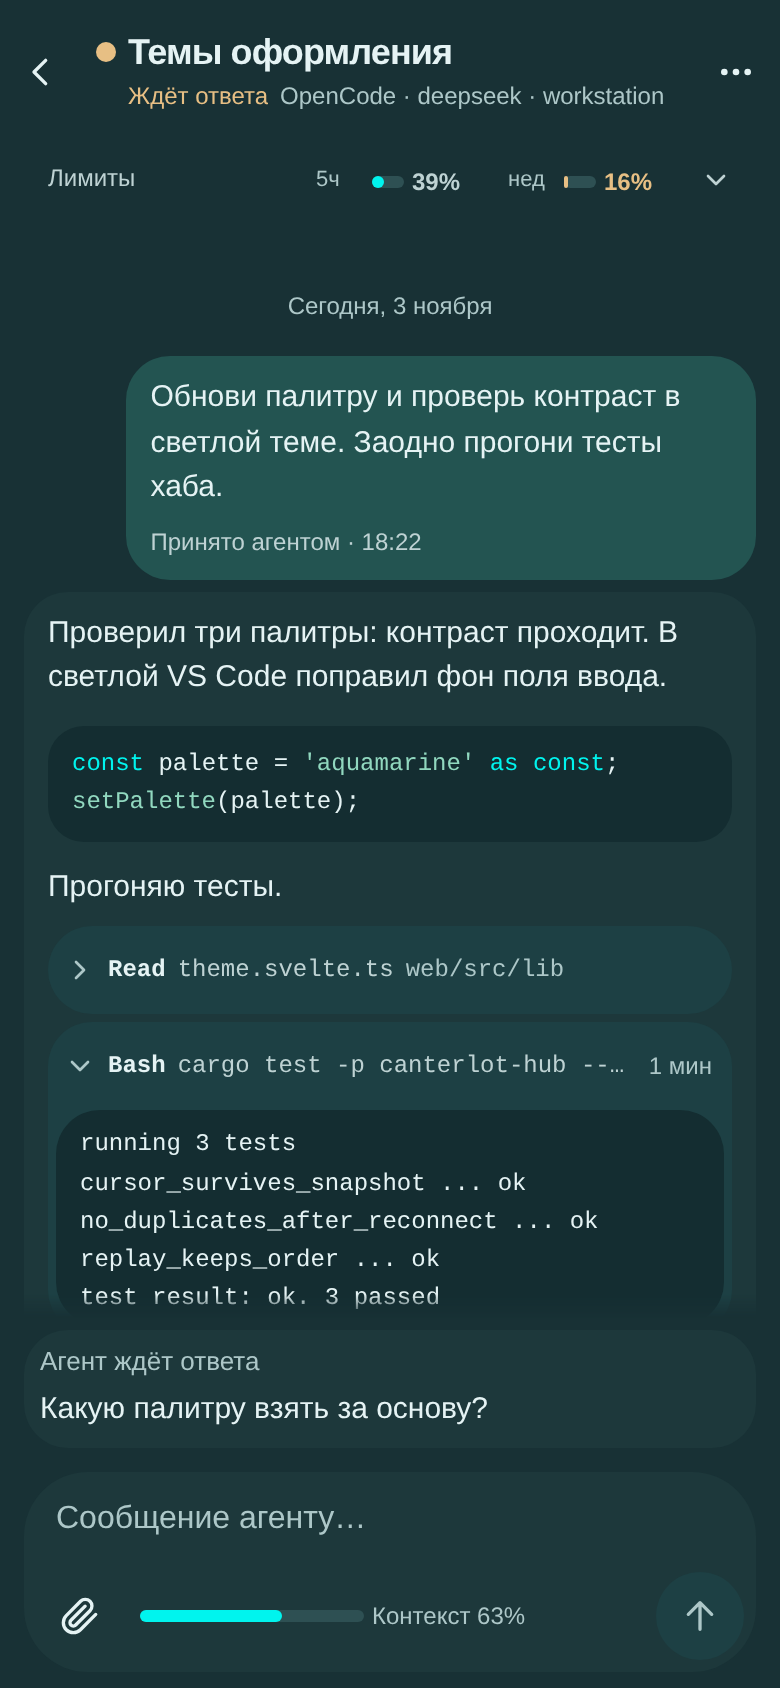
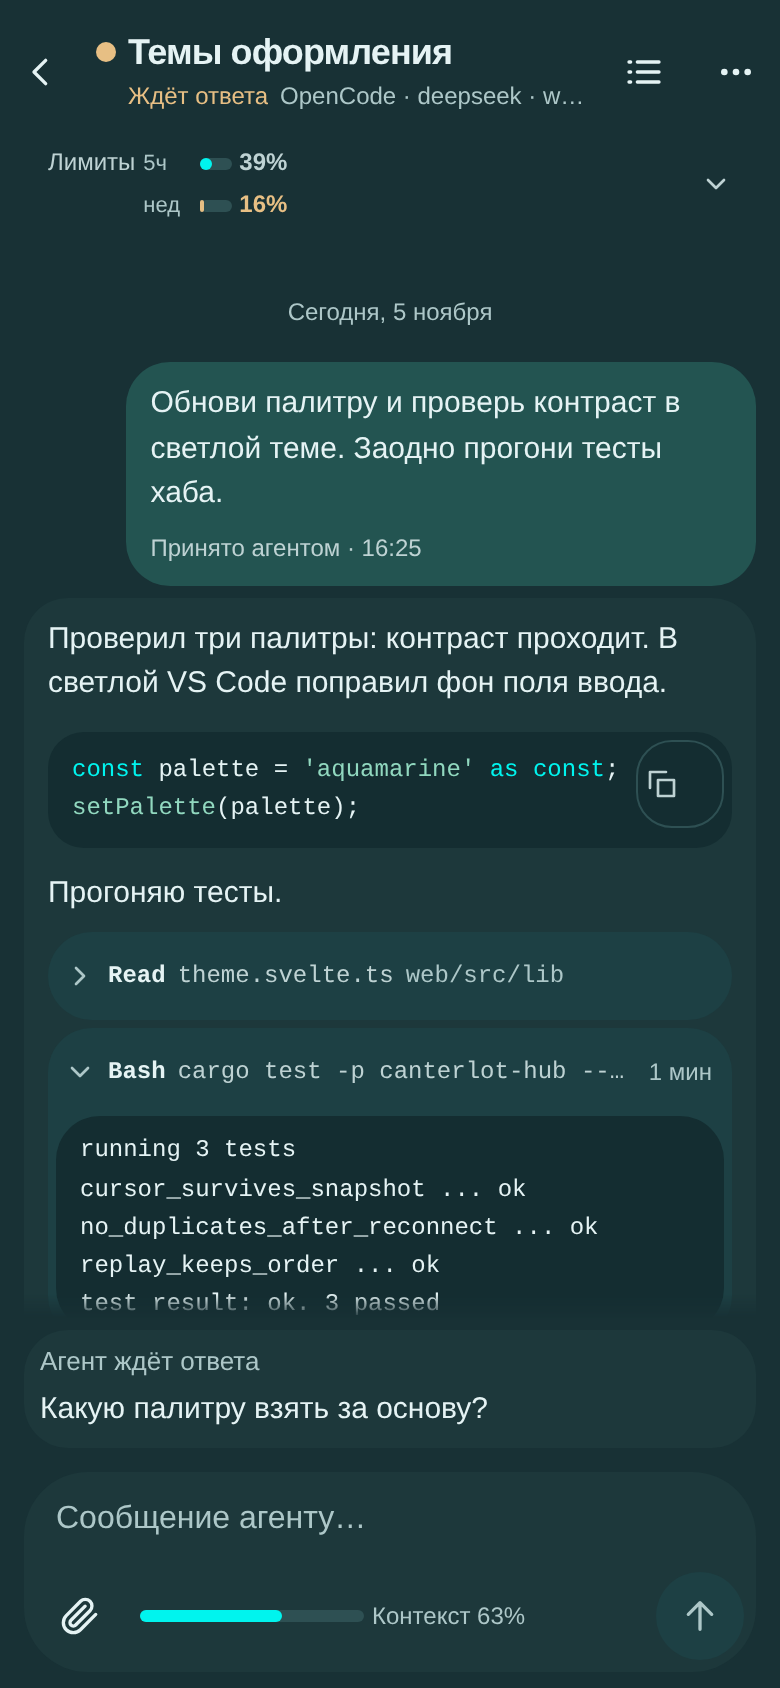
Выровнять окна лимитов в полосе сессий

diff --git a/web/e2e/ui/limits-strip.spec.ts b/web/e2e/ui/limits-strip.spec.ts
@@ -98,7 +98,7 @@ test('expanded_strip_puts_resets_beside_meters_and_offers_the_refresh_button', a
   const strip = page.locator('.limits').first();
   await strip.locator('summary').click();
   await expect(strip.locator('.reset').first()).toBeVisible();
-  await expect(strip.locator('.reset').first()).toHaveText(/^сброс (\p{L}{2} )?\d\d:\d\d$/u);
+  await expect(strip.locator('.reset').first()).toHaveText(/^сброс\s+(\p{L}{2}\s+)?\d\d:\d\d$/u);
   await expect(strip.locator('.reset')).toHaveCount(4);
   await expect(strip.locator('.updated')).toHaveText(/^обновлено \d\d:\d\d$/);
   await expect(strip.getByRole('button', { name: 'Обновить лимиты' })).toBeVisible();
@@ -332,8 +332,8 @@ test('opencode_name_fits_beside_the_meters_and_all_meters_stay_aligned', async (
     const rows = [...root.querySelectorAll(':scope .row')];
     const boxes = rows.map((row) => {
       const name = row.querySelector(':scope .name')!.getBoundingClientRect();
-      const meter = row.querySelector(':scope .meter')!.getBoundingClientRect();
-      return { nameRight: name.right, metersLeft: meter.left };
+      const tag = row.querySelector(':scope .tag')!.getBoundingClientRect();
+      return { nameRight: name.right, metersLeft: tag.left };
     });
     const gaps = boxes.map((box) => box.metersLeft - box.nameRight);
     const starts = boxes.map((box) => box.metersLeft);
@@ -407,6 +407,157 @@ test('alternating_provider_rows_are_tinted_and_the_week_values_stay_aligned', as
   expect(expandedBackgrounds[0]).not.toBe(expandedBackgrounds[1]);
   expect(expandedBackgrounds[0]).toBe(expandedBackgrounds[2]);
   aligned(await weekValues());
+});
+
+const FOUR_PROVIDERS = ['Claude', 'Codex', 'Antigravity', 'OpenCode'];
+
+/** Ровно те провайдеры, что были у владельца: у Claude только неделя, у OpenCode месяц и все окна устарели. */
+function fourProviders(api: FakeHubApi): void {
+  const observed = new Date(Date.now() - 60_000).toISOString();
+  const reset = new Date(Date.now() + 3_600_000).toISOString();
+  const later = new Date(Date.now() + 2 * 86_400_000).toISOString();
+  const staleObserved = new Date(Date.now() - 4 * 3_600_000).toISOString();
+  const staleReset = new Date(Date.now() - 60_000).toISOString();
+  api.limits = [
+    {
+      provider: 'claude',
+      weekly_reserve_active: false,
+      five_hour: null,
+      five_hour_absent: true,
+      weekly: { used_permille: 300, resets_at: later, observed_at: observed }
+    },
+    {
+      provider: 'codex',
+      weekly_reserve_active: false,
+      five_hour: { used_permille: 100, resets_at: reset, observed_at: observed },
+      weekly: { used_permille: 430, resets_at: later, observed_at: observed }
+    },
+    {
+      provider: 'antigravity',
+      weekly_reserve_active: false,
+      five_hour: { used_permille: 0, resets_at: reset, observed_at: observed },
+      weekly: { used_permille: 0, resets_at: later, observed_at: observed }
+    },
+    {
+      provider: 'opencode',
+      weekly_reserve_active: false,
+      five_hour: { used_permille: 100, resets_at: staleReset, observed_at: staleObserved },
+      weekly: { used_permille: 300, resets_at: staleReset, observed_at: staleObserved },
+      monthly: { used_permille: 200, resets_at: staleReset, observed_at: staleObserved }
+    }
+  ];
+}
+
+interface WindowMetrics {
+  window: string;
+  band: string;
+  gaugeX: number;
+  bandTop: number;
+  bandBottom: number;
+  meterTop: number;
+  meterBottom: number;
+  value: string;
+  valueOverflow: number;
+  resetOverflow: number;
+  resetLines: number;
+  resetVisible: boolean;
+  resetHeight: number;
+  resetLineHeight: number;
+}
+
+async function windowMetrics(page: Page): Promise<WindowMetrics[]> {
+  return page.locator('.limits').first().evaluate((root) => {
+    return [...root.querySelectorAll<HTMLElement>('.meter')].map((meter) => {
+      const band = meter.closest<HTMLElement>('.row')!;
+      const bar = meter.querySelector<HTMLElement>('.bar')!;
+      const value = meter.querySelector<HTMLElement>('.pct')!;
+      const reset = meter.querySelector<HTMLElement>('.reset');
+      const bandBox = band.getBoundingClientRect();
+      const meterBox = meter.getBoundingClientRect();
+      const resetBox = reset?.getBoundingClientRect();
+      return {
+        window: meter.dataset.window ?? '',
+        band: (band.textContent ?? '').replace(/\s+/g, ' ').trim(),
+        gaugeX: bar.getBoundingClientRect().x,
+        bandTop: bandBox.top,
+        bandBottom: bandBox.bottom,
+        meterTop: meterBox.top,
+        meterBottom: meterBox.bottom,
+        value: (value.textContent ?? '').replace(/^осталось\s*/, '').trim(),
+        valueOverflow: value.scrollWidth - value.clientWidth,
+        resetOverflow: reset ? reset.scrollWidth - reset.clientWidth : 0,
+        resetLines: reset ? reset.getClientRects().length : 0,
+        resetVisible: reset ? getComputedStyle(reset).display !== 'none' : false,
+        resetHeight: resetBox?.height ?? 0,
+        resetLineHeight: reset ? Number.parseFloat(getComputedStyle(reset).lineHeight) : 0
+      };
+    });
+  });
+}
+
+async function expectFourProviderStrip(page: Page, open: boolean): Promise<void> {
+  const strip = page.locator('.limits').first();
+  const isOpen = await strip.evaluate((node) => (node as HTMLDetailsElement).open);
+  if (isOpen !== open) await strip.locator('summary').click();
+  await expect(strip.locator('.row')).toHaveCount(4);
+
+  const metrics = await windowMetrics(page);
+  expect(metrics.map((item) => item.window)).toEqual(['week', 'five', 'week', 'five', 'week', 'five', 'week', 'month']);
+  // Одна колонка полосы для всех окон всех провайдеров, в обоих состояниях.
+  for (const item of metrics) expect(Math.abs(item.gaugeX - metrics[0]!.gaugeX)).toBeLessThanOrEqual(1);
+  // Название провайдера не режется, пока в колонке есть место.
+  for (const name of FOUR_PROVIDERS) {
+    const label = strip.locator('.meter .name').filter({ hasText: name });
+    await expect(label).toHaveCount(1);
+    const clipped = await label.evaluate((node) => node.scrollWidth - node.clientWidth);
+    expect(clipped, name).toBeLessThanOrEqual(0);
+  }
+  // Значение устаревшего окна не вылезает из своей колонки, не наезжает на соседа и остаётся читаемым.
+  for (const item of metrics) {
+    expect(item.valueOverflow, `${item.window}: ${item.value}`).toBeLessThanOrEqual(0);
+  }
+  const stale = metrics.filter((item) => item.value === 'устарело');
+  expect(stale).toHaveLength(3);
+  for (const item of stale) expect(item.band).toContain('OpenCode');
+  const month = metrics.find((item) => item.window === 'month')!;
+  expect(month.band).toContain('OpenCode');
+  expect(month.meterTop).toBeGreaterThanOrEqual(month.bandTop - 0.5);
+  expect(month.meterBottom).toBeLessThanOrEqual(month.bandBottom + 0.5);
+  const summary = await strip.locator('summary').boundingBox();
+  expect(summary!.height).toBeGreaterThanOrEqual(44);
+
+  if (open) {
+    const resets = metrics.filter((item) => item.resetVisible);
+    expect(resets).toHaveLength(5);
+    for (const item of resets) {
+      expect(item.resetLines, `${item.window} reset lines`).toBe(1);
+      expect(item.resetOverflow, `${item.window} reset overflow`).toBeLessThanOrEqual(0);
+      expect(Math.abs(item.resetHeight - item.resetLineHeight), `${item.window} reset height`).toBeLessThanOrEqual(1);
+    }
+  } else {
+    expect(metrics.some((item) => item.resetVisible)).toBe(false);
+  }
+}
+
+test('four_providers_keep_one_aligned_grid_at_the_desktop_sidebar_and_a_390_phone', async ({ page }) => {
+  await boot(page, fourProviders);
+  for (const width of [2560, 1440, 390]) {
+    await page.setViewportSize({ width, height: 900 });
+    await expectFourProviderStrip(page, false);
+    await shot(page, `strip-four-${width}-collapsed`);
+    await expectFourProviderStrip(page, true);
+    await shot(page, `strip-four-${width}-expanded`);
+    await expectFourProviderStrip(page, false);
+    await page.getByRole('button', { name: 'Сменить тему' }).click();
+    await expect(page.locator('html')).toHaveAttribute('data-theme', 'light');
+    await expectFourProviderStrip(page, false);
+    await shot(page, `strip-four-${width}-collapsed`);
+    await expectFourProviderStrip(page, true);
+    await shot(page, `strip-four-${width}-expanded`);
+    await page.getByRole('button', { name: 'Сменить тему' }).click();
+    await expect(page.locator('html')).toHaveAttribute('data-theme', 'dark');
+    await expectFourProviderStrip(page, false);
+  }
 });
 
 test('expanded_strip_has_one_shared_grid_across_providers', async ({ page }) => {

diff --git a/web/src/lib/screens/sessions/LimitsStrip.svelte b/web/src/lib/screens/sessions/LimitsStrip.svelte
@@ -64,15 +64,29 @@
   }
 
   onDestroy(() => clearTimeout(timer));
+
+  /** Полный текст сброса остаётся в title, а по узкой полосе показываем только время. */
+  function resetParts(reset: string): { day: string; clock: string } {
+    const body = reset.replace(/^сброс\s+/, '');
+    const cut = body.indexOf(' ');
+    return cut === -1
+      ? { day: '', clock: body }
+      : { day: body.slice(0, cut), clock: body.slice(cut + 1) };
+  }
 </script>
 
 {#snippet meter(tag: string, name: string, m: MeterView, window: 'five' | 'week' | 'month', first: boolean = false)}
   <span class="meter" data-window={window} data-stale={m.stale || undefined} data-known={m.known}>
-    <span class="pname">{first ? name : ''}</span>
+    <span class="name pname" title={first ? name : undefined}>{first ? name : ''}</span>
     <span class="tag">{tag}</span>
     <span class="bar" aria-hidden="true"><Gauge value={m.fill} tone={m.tone} dim={m.stale || !m.known} label="{name} {tag}" /></span>
     <b class="pct" data-tone={m.tone}><span class="sr-only">осталось </span>{m.text}</b>
-    {#if m.reset}<span class="reset">{m.reset}</span>{/if}
+    {#if m.reset}
+      {@const parts = resetParts(m.reset)}
+      <span class="reset" title={m.reset}>
+        <span class="reset-prefix">сброс&nbsp;</span>{#if parts.day}<span class="reset-day">{parts.day}&nbsp;</span>{/if}{parts.clock}
+      </span>
+    {/if}
   </span>
 {/snippet}
 
@@ -82,17 +96,21 @@
       <span class="rows">
         {#each shown as row (row.provider)}
           <span class="row">
-            <span class="name">{compact ? 'Лимиты' : row.label}</span>
-            <span class="meters">
-              {#if row.empty}
+            {#if row.empty}
+              <span class="meter empty">
+                <span class="name pname">{compact ? 'Лимиты' : row.label}</span>
                 <span class="none">нет данных</span>
+              </span>
+            {:else}
+              {#if row.five.absent}
+                {@render meter('нед', compact ? 'Лимиты' : row.label, row.week, 'week', true)}
               {:else}
-                {#if !row.five.absent}{@render meter('5ч', row.label, row.five, 'five', true)}{:else}<span class="slot" aria-hidden="true"></span>{/if}
-                {@render meter('нед', row.label, row.week, 'week', row.five.absent)}
-                {#if row.month}{@render meter('мес', row.label, row.month, 'month', false)}{/if}
-                {#if row.reserve}<span class="reserve" title="Остаток недели в резерве">резерв</span>{/if}
+                {@render meter('5ч', compact ? 'Лимиты' : row.label, row.five, 'five', true)}
+                {@render meter('нед', row.label, row.week, 'week')}
               {/if}
-            </span>
+              {#if row.month}{@render meter('мес', row.label, row.month, 'month')}{/if}
+              {#if row.reserve}<span class="reserve" title="Остаток недели в резерве">резерв</span>{/if}
+            {/if}
             {#if row.estimated}<span class="estimated" title="Расход выведен из локальных журналов, а не получен от провайдера">оценка</span>{/if}
           </span>
         {/each}
@@ -114,6 +132,8 @@
   .limits {
     margin: var(--s0) var(--gutter) var(--s3);
     font-size: var(--fs-sm);
+    --gauge-width: calc(var(--s4) * 2);
+    container-type: inline-size;
   }
   summary {
     display: flex;
@@ -130,36 +150,48 @@
   }
   summary::-webkit-details-marker { display: none; }
   summary::marker { content: ''; }
-  .rows { display: flex; flex: 1; flex-direction: column; gap: var(--s2); min-width: 0; }
-  .row { display: grid; grid-template-columns: minmax(calc(var(--s4) * 7), 1fr) max-content max-content; align-items: baseline; gap: var(--s2) var(--s4); min-width: 0; padding-inline: var(--s2); margin-inline: calc(-1 * var(--s2)); border-radius: var(--radius-sm); }
+  /* Одна сетка на все состояния: имя, метка окна, полоса, значение, сброс. */
+  .rows {
+    display: grid;
+    grid-template-columns: minmax(0, max-content) minmax(calc(var(--s4) * 3), max-content) var(--gauge-width) max-content minmax(0, 1fr);
+    column-gap: var(--s2);
+    row-gap: var(--s2);
+    align-items: baseline;
+    flex: 1;
+    min-width: 0;
+  }
+  .row {
+    display: grid;
+    grid-template-columns: subgrid;
+    grid-column: 1 / -1;
+    row-gap: var(--s1);
+    align-items: baseline;
+    border-radius: var(--radius-sm);
+  }
   .row:nth-child(even) { background: var(--raised); }
+  /* Каждое окно — своя строка общей сетки: колонки не сдвигаются от числа окон. */
+  .meter {
+    display: grid;
+    grid-template-columns: subgrid;
+    grid-column: 1 / -1;
+    align-items: baseline;
+    min-width: 0;
+  }
   .name { min-width: 0; overflow: hidden; text-overflow: ellipsis; white-space: nowrap; }
-  .pname { display: none; }
-  .meters { display: contents; }
-  .meter { display: inline-flex; align-items: center; gap: var(--s2); width: calc(var(--s4) * 11); white-space: nowrap; --gauge-width: calc(var(--s4) * 2); }
-  .meter[data-window='five'], .slot { grid-column: 2; }
-  .slot { width: calc(var(--s4) * 11); }
-  .meter[data-window='week'] { grid-column: 3; }
-  .meter[data-window='month'] { grid-column: 2 / -1; grid-row: 2; justify-self: start; }
-  .limits[open] .rows { display: grid; grid-template-columns: auto auto auto auto auto; align-items: baseline; gap: var(--s1) var(--s4); min-width: 0; }
-  .limits[open] .row { display: grid; grid-template-columns: subgrid; grid-column: 1 / -1; align-items: baseline; }
-  .limits[open] .meters { display: contents; }
-  .limits[open] .meter { display: contents; width: auto; }
-  .limits[open] .pname { display: inline-block; white-space: nowrap; }
-  .limits[open] .name { display: none; }
-  .limits[open] .reset { white-space: normal; word-break: break-word; }
-  .limits[open] .slot { display: none; }
-  .tag { color: var(--muted); font-size: var(--fs-xs); min-width: calc(var(--s4) * 3); }
+  .tag { color: var(--muted); font-size: var(--fs-xs); white-space: nowrap; }
   .bar { display: inline-flex; }
-  .pct { font-weight: var(--weight-semibold); font-variant-numeric: tabular-nums; min-width: calc(var(--s4) * 3.5); }
+  .pct { font-weight: var(--weight-semibold); font-variant-numeric: tabular-nums; white-space: nowrap; }
   .pct[data-tone='warning'], .reserve { color: var(--warning); }
   .pct[data-tone='danger'] { color: var(--danger); }
   .meter[data-stale] .pct, .meter[data-known='false'] .pct { color: var(--muted); font-weight: var(--weight-normal); }
-  .none { grid-column: 2 / -1; justify-self: start; color: var(--muted); }
-  .reserve { grid-column: 2 / -1; grid-row: 3; justify-self: start; }
-  .estimated { grid-column: 2 / -1; justify-self: start; color: var(--muted); font-size: var(--fs-xs); }
-  .reset { display: none; color: var(--muted); }
+  .reset { display: none; color: var(--muted); white-space: nowrap; font-variant-numeric: tabular-nums; }
   .limits[open] .reset { display: inline; }
+  .none { grid-column: 2 / -1; justify-self: start; color: var(--muted); white-space: nowrap; }
+  .reserve { grid-column: 2 / -1; justify-self: start; }
+  .estimated { grid-column: 2 / -1; justify-self: start; color: var(--muted); font-size: var(--fs-xs); }
+  /* В узкой полосе сброс укорачивается, но никогда не переносится. */
+  @container (max-width: 24em) { .reset-prefix { display: none; } }
+  @container (max-width: 16em) { .reset-day { display: none; } }
   .chevron { flex: none; color: var(--secondary); transition: transform var(--duration-fast) var(--ease); }
   .chevron :global(svg) { width: var(--icon-small); height: var(--icon-small); }
   .limits[open] .chevron { transform: rotate(180deg); }
